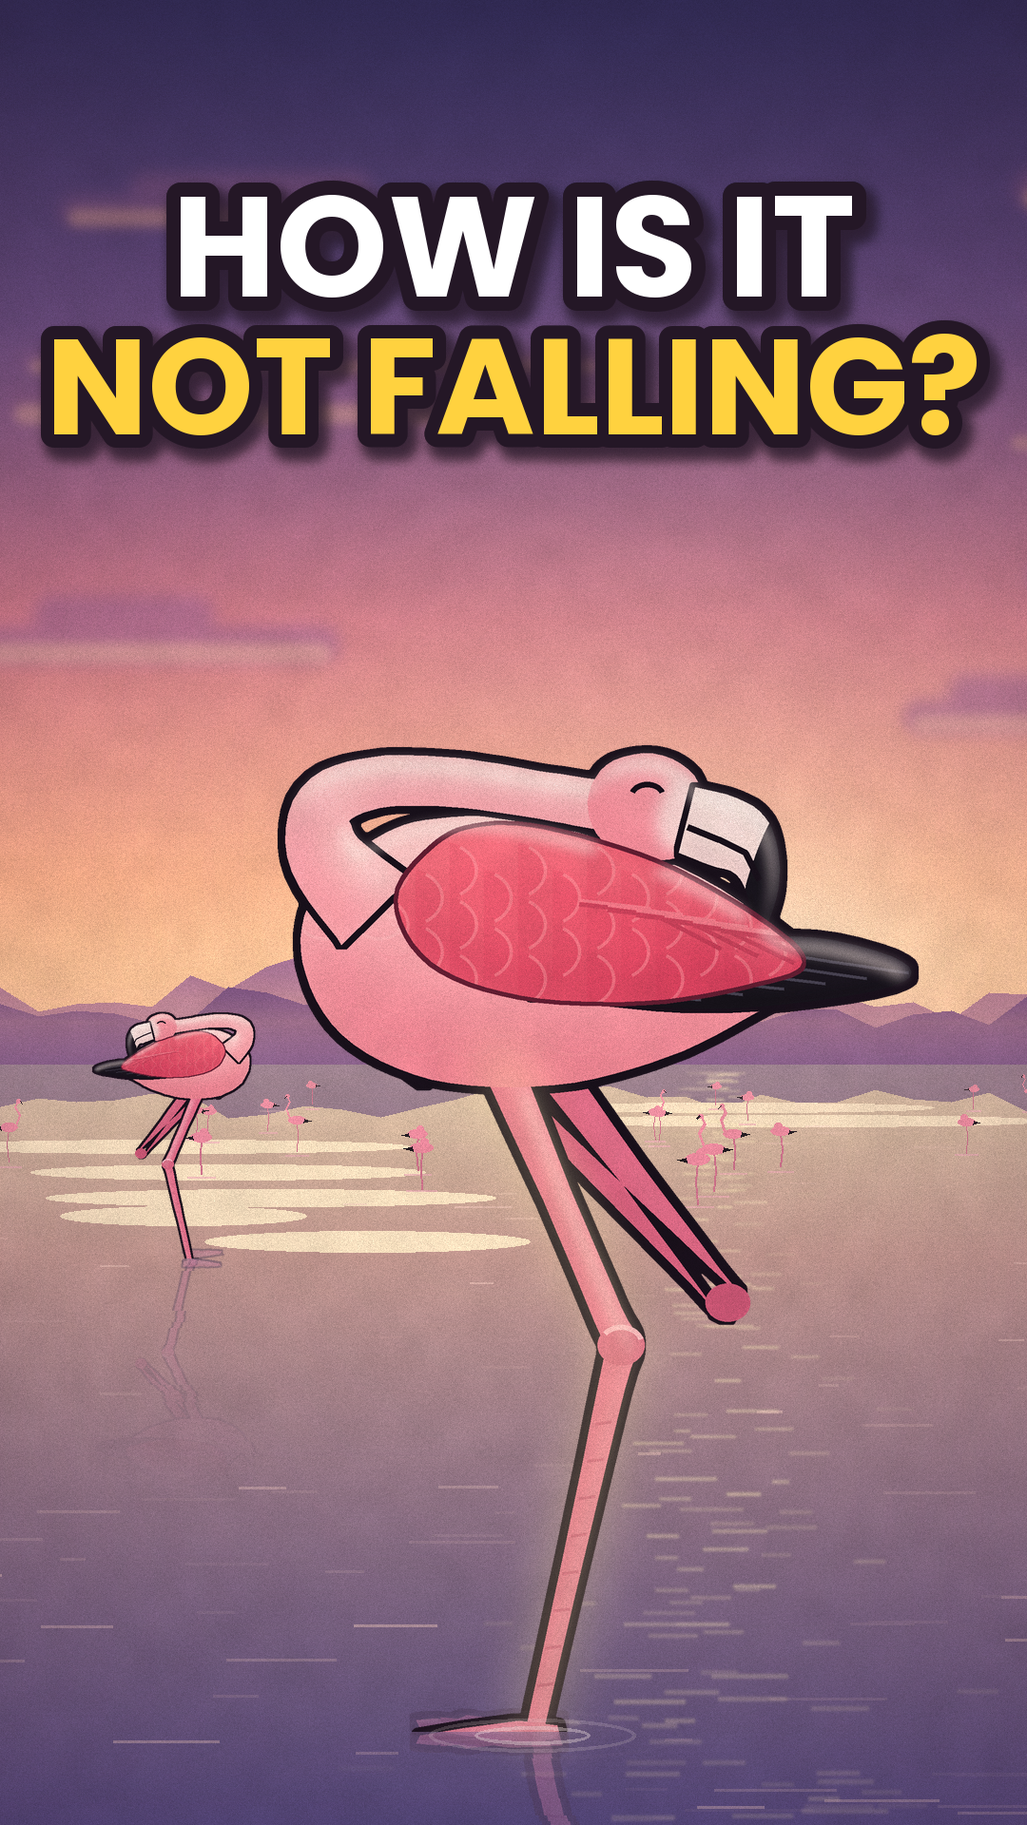
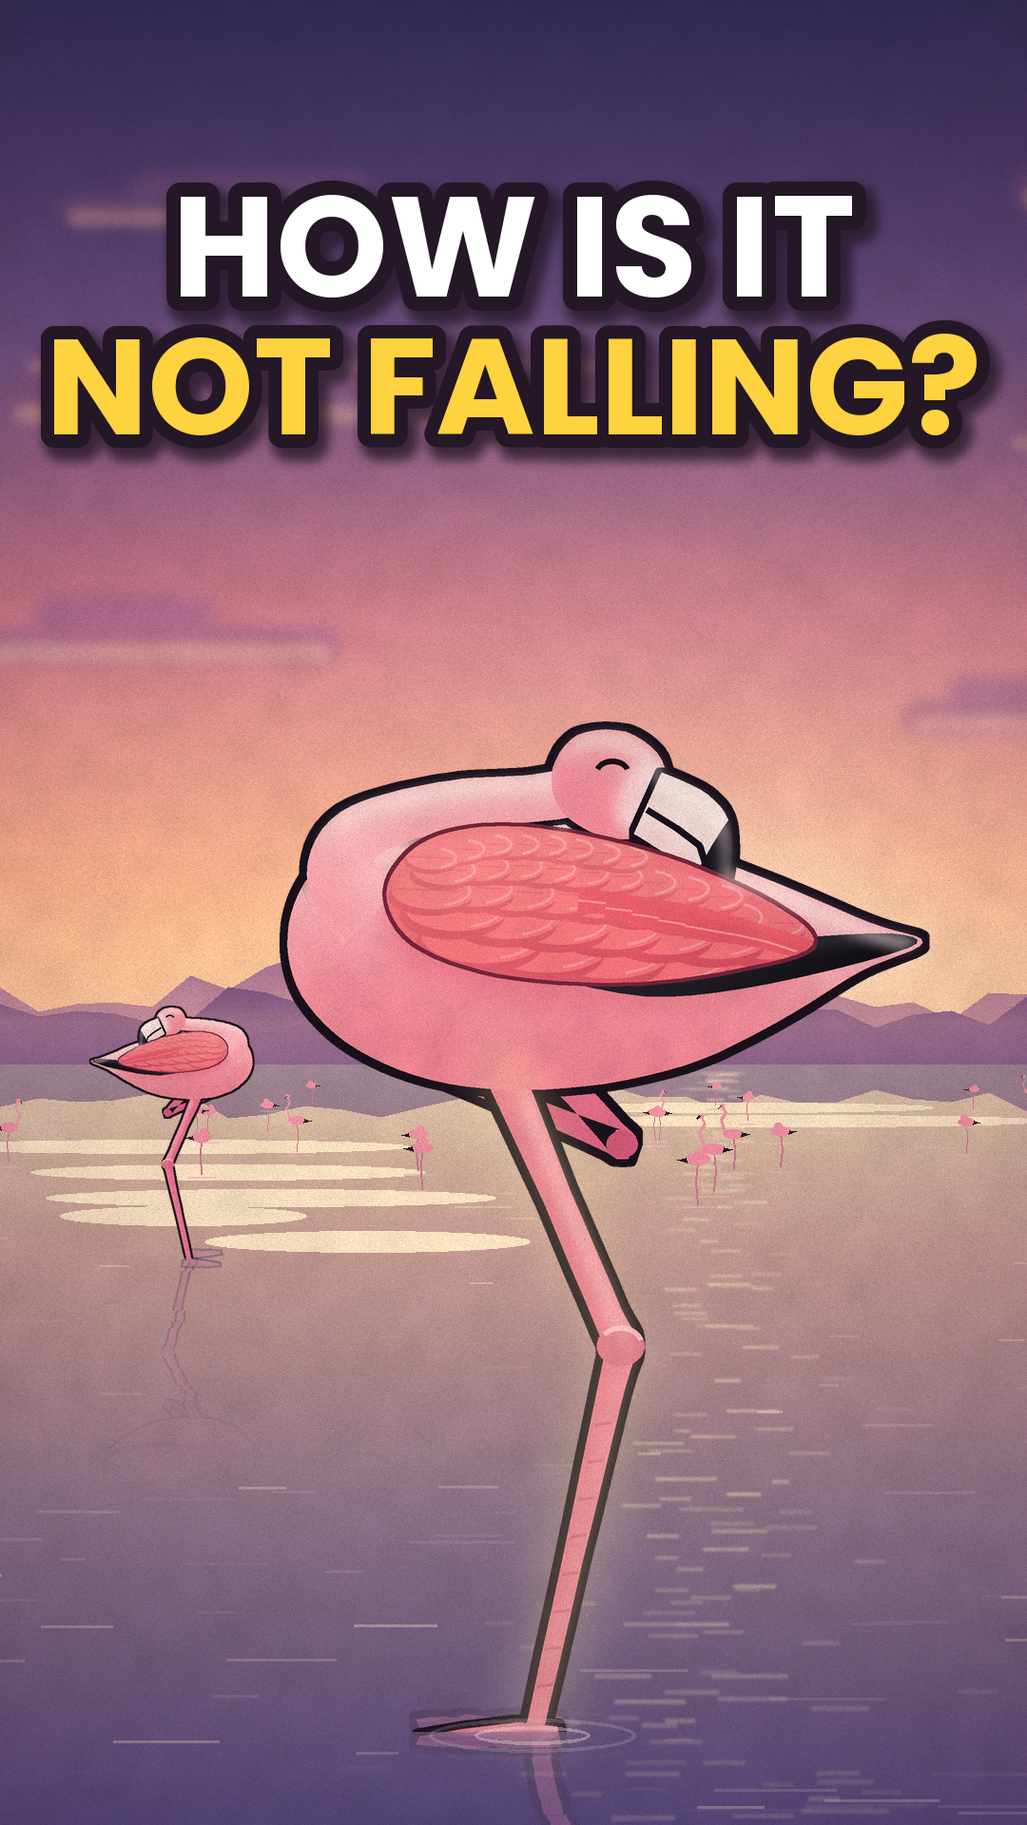
flamingo-one-leg: fix pass (tight folded leg, neck laid flat when asleep, new body + layered coverts + black band, s03 cold leg, s07 zoo yard, caption bands) + thumbnail
Claude-Session: https://claude.ai/code/session_01CUE844VhHn44pL2N7vrAMq

Changed region(s): [[0.2444, 0.375, 0.9167, 0.75], [0.0917, 0.5312, 0.2444, 0.6562], [0.4278, 0.5938, 0.4889, 0.625]]

diff --git a/flat2d/flamingo.py b/flat2d/flamingo.py
@@ -24,8 +24,8 @@ from animals import _cr, _limb_poly, _dilate, _erode, _paste, contact
 
 INK = (24, 16, 26)
 PAL = {
-    'adult': dict(body=(250, 168, 172), body_hi=(255, 214, 210), body_lo=(226, 104, 124), wing=(236, 78, 102),
-                  wing_hi=(255, 140, 146), wing_lo=(190, 46, 78), neck=(252, 172, 176), neck_lo=(232, 118, 136),
+    'adult': dict(body=(250, 168, 172), body_hi=(255, 214, 210), body_lo=(226, 104, 124), wing=(242, 102, 112),
+                  wing_hi=(255, 164, 158), wing_lo=(204, 60, 86), neck=(252, 172, 176), neck_lo=(232, 118, 136),
                   head=(248, 150, 160), face=(250, 226, 220), beak=(246, 220, 214), beak_lo=(214, 168, 170),
                   leg=(238, 120, 146), leg_lo=(196, 76, 108), leg_hi=(255, 178, 192), black=(26, 22, 30),
                   eye=(252, 214, 60), rim=(255, 236, 226)),
@@ -69,18 +69,19 @@ def ik(K, F, back=True):
 
 
 # ---------------------------------------------------------------- geometry
-BODY = [(0.140, -0.800), (0.195, -0.750), (0.205, -0.690), (0.170, -0.625), (0.090, -0.585), (-0.020, -0.580),
-        (-0.120, -0.605), (-0.200, -0.645), (-0.255, -0.680), (-0.225, -0.715), (-0.130, -0.775), (0.000, -0.815),
-        (0.085, -0.818)]
-WING = [(0.090, -0.790), (0.120, -0.745), (0.090, -0.690), (0.010, -0.660), (-0.100, -0.655), (-0.200, -0.672),
-        (-0.240, -0.690), (-0.200, -0.728), (-0.110, -0.778), (-0.010, -0.808), (0.050, -0.810)]
-PRIM = [(0.010, -0.672), (-0.090, -0.652), (-0.200, -0.650), (-0.320, -0.668), (-0.330, -0.690), (-0.250, -0.712),
-        (-0.150, -0.705), (-0.060, -0.690)]
-# neck centrelines (base in the chest -> head centre) for the upright and sleeping poses
+BODY = [(0.150, -0.802), (0.198, -0.768), (0.218, -0.715), (0.205, -0.660), (0.155, -0.612), (0.075, -0.582),
+        (-0.030, -0.578), (-0.135, -0.598), (-0.220, -0.638), (-0.292, -0.682), (-0.348, -0.708), (-0.300, -0.726),
+        (-0.200, -0.768), (-0.080, -0.808), (0.040, -0.824)]
+WING = [(0.105, -0.792), (0.130, -0.752), (0.105, -0.708), (0.030, -0.680), (-0.080, -0.672), (-0.180, -0.684),
+        (-0.250, -0.706), (-0.215, -0.742), (-0.120, -0.784), (-0.020, -0.808), (0.055, -0.810)]
+PRIM = [(0.000, -0.684), (-0.100, -0.660), (-0.210, -0.671), (-0.335, -0.703), (-0.322, -0.716), (-0.240, -0.712),
+        (-0.120, -0.700), (-0.030, -0.700)]
+# neck centrelines (base in the chest -> head centre) for the upright and sleeping poses. Asleep the neck lies flat
+# in an S along the back (no gap under it) and the head rests on the back, the bill tucked into the back feathers.
 NECK_UP = [(0.140, -0.735), (0.190, -0.810), (0.225, -0.905), (0.200, -1.000), (0.130, -1.075), (0.105, -1.160),
            (0.140, -1.240), (0.195, -1.280)]
-NECK_SLEEP = [(0.140, -0.735), (0.185, -0.785), (0.185, -0.830), (0.140, -0.850), (0.070, -0.850), (0.000, -0.840),
-              (-0.060, -0.830), (-0.105, -0.825)]
+NECK_SLEEP = [(0.140, -0.735), (0.168, -0.766), (0.160, -0.800), (0.118, -0.820), (0.060, -0.832), (0.005, -0.836),
+              (-0.040, -0.842), (-0.072, -0.846)]
 NECK_W = [0.085, 0.066, 0.052, 0.046, 0.044, 0.042, 0.044, 0.050]
 
 
@@ -121,7 +122,7 @@ def geometry(pose, kind='adult'):
     hc = cl[-1]
     d_up = math.atan2(cl[-1][1] - cl[-2][1], cl[-1][0] - cl[-2][0])
     a_up = 0.35 + float(p.get('nod', 0.0))                         # rad, + = beak down
-    a_sl = math.pi - 0.25
+    a_sl = math.pi - 0.42
     ha = lerp(a_up, a_sl, sl) if sl < .5 else lerp(a_up + 2 * math.pi * 0, a_sl, sl)
     ha += tilt
     G['head_c'], G['head_a'] = hc, ha
@@ -156,11 +157,14 @@ def geometry(pose, kind='adult'):
     def angs(K, A, F):
         return math.atan2(A[1] - K[1], A[0] - K[0]), math.atan2(F[1] - A[1], F[0] - A[0])
     a1d, a2d = angs(Kf, Af_down, Ff_down)
-    a1t, a2t = math.atan2(0.80, -0.60) + tilt, math.atan2(-0.70, 0.71) + tilt          # tucked: '<' pointing back
+    At, Ft = B((-0.080, -0.528)), B((0.080, -0.592))
+    a1t, a2t = angs(Kf, At, Ft)
+    L1t, L2t = math.hypot(At[0] - Kf[0], At[1] - Kf[1]), math.hypot(Ft[0] - At[0], Ft[1] - At[1])
     k = fold * fold * (3 - 2 * fold)
-    a1 = lerp(a1d, a1t, k); a2 = lerp(a2d, a2t if a2t > a2d - math.pi else a2t + 2 * math.pi, k)
-    Af = (Kf[0] + math.cos(a1) * LT, Kf[1] + math.sin(a1) * LT)
-    Ff = (Af[0] + math.cos(a2) * LM, Af[1] + math.sin(a2) * LM)
+    if a2t > a2d: a2t -= 2 * math.pi
+    a1 = lerp(a1d, a1t, k); a2 = lerp(a2d, a2t, k)
+    Af = (Kf[0] + math.cos(a1) * lerp(LT, L1t, k), Kf[1] + math.sin(a1) * lerp(LT, L1t, k))
+    Ff = (Af[0] + math.cos(a2) * lerp(LM, L2t, k), Af[1] + math.sin(a2) * lerp(LM, L2t, k))
     G['legs'] = {'near': (Kn, An, Fn), 'far': (Kf, Af, Ff)}
     G['far_fold'] = k
     G['piv'] = B(piv)
@@ -184,8 +188,8 @@ def _foot_poly(F, A, tucked=0.0):
     tucked: the toes curl and point down/back (foot folded up under the body)."""
     dirx = 1.0
     if tucked > 0:
-        a = math.atan2(F[1] - A[1], F[0] - A[0]) + math.pi * .55 * tucked
-        L = 0.085 * (1 - .35 * tucked)
+        a = math.atan2(F[1] - A[1], F[0] - A[0]) - math.pi * .25 * tucked
+        L = 0.085 * (1 - .45 * tucked)
         tipc = (F[0] + math.cos(a) * L, F[1] + math.sin(a) * L)
         n = (-math.sin(a), math.cos(a))
         web = [(F[0] - n[0] * .012, F[1] - n[1] * .012), (tipc[0] - n[0] * .022, tipc[1] - n[1] * .022),
@@ -273,11 +277,11 @@ def bird(s, pose=None, kind='adult', light=(-.5, -1.0), cache=True, ink_w=None):
     fc = lerpc(C['leg'], C['leg_lo'], .45)
     paint(mfar, fc, lerpc(C['leg'], C['leg_hi'], .4), C['leg_lo'], .4, .5, .02)
     d = ImageDraw.Draw(lay)
-    d.ellipse([*pt((Af[0] - .02, Af[1] - .017)), *pt((Af[0] + .02, Af[1] + .017))], fill=lerpc(fc, C['leg_lo'], .5))
+    d.ellipse([*pt((Af[0] - .014, Af[1] - .012)), *pt((Af[0] + .014, Af[1] + .012))], fill=lerpc(fc, C['leg_lo'], .5))
 
     # ---- near group masks
     mb = M([G['body']]); mn = M([G['neck']]); mh = M([G['head']]); mbk = M([G['beak']])
-    mw = M([G['wing']]); mp = M([G['prim']] + [_limb_poly(_cr(f, 4, False), np.linspace(.028, .010, len(_cr(f, 4, False)))) for f in G['feathers']])
+    mw = M([G['wing']]); mp = M([G['prim']])
     Kn, An, Fn = G['legs']['near']
     ml = M([_leg_poly(Kn, An, Fn)])
     webn, toesn = _foot_poly(Fn, An)
@@ -298,21 +302,29 @@ def bird(s, pose=None, kind='adult', light=(-.5, -1.0), cache=True, ink_w=None):
     for tl in toesn:
         d.line([pt(tl[0]), pt(tl[1])], fill=lerpc(C['leg'], C['leg_lo'], .7), width=max(1, int(S * .004)))
 
-    # body: graded pale back -> deeper belly, scallops
+    # body: an oval with a full chest, graded pale back -> coral belly, soft layered contour feathers, form shadow
     bb = mb.getbbox() or (0, 0, Wd, Hd)
-    paint(mb, ('g', (0, bb[1]), (0, bb[3]), C['body_hi'], C['body_lo'], C['body'], .55), C['rim'], C['body_lo'], .5, .55, .05)
+    paint(mb, ('g', (0, bb[1]), (0, bb[3]), C['body_hi'], C['body_lo'], C['body'], .5), C['rim'], C['body_lo'], .5, .6, .06)
     tex = Image.new('RGBA', (Wd, Hd), (0, 0, 0, 0)); dt = ImageDraw.Draw(tex)
     rng = np.random.default_rng(7)
-    r = .022 * S
-    for row in range(12):
-        yy = bb[1] + (row + .5) * (bb[3] - bb[1]) / 14
-        off = (row % 2) * r
-        for xx in np.arange(bb[0] - r + off, bb[2] + r, r * 2.0):
-            j = rng.uniform(-.25, .25) * r
-            col = lerpc(C['body'], C['body_lo'], .35) if row > 5 else lerpc(C['body'], C['body_hi'], .6)
-            dt.arc([xx - r + j, yy - r * .7, xx + r + j, yy + r * .7], 20, 160, fill=col + (70,), width=max(1, int(S * .003)))
+    fw = .05 * S
+    for row in range(7):
+        yy = bb[1] + (row + 1.2) * (bb[3] - bb[1]) / 8.2
+        off = (row % 2) * fw * .55
+        for xx in np.arange(bb[0] + off, bb[2], fw * 1.1):
+            j = rng.uniform(-.2, .2) * fw; L = fw * rng.uniform(.9, 1.25)
+            # one contour feather: its tip edge (pointing back, -x) as a soft crescent, a pale fringe above it
+            box = [xx - L + j, yy - fw * .42, xx + L * .2 + j, yy + fw * .42]
+            dt.arc(box, 115, 245, fill=lerpc(C['body_lo'], (150, 40, 70), .1) + (12 + row * 3,), width=max(1, int(S * .004)))
+            dt.arc([box[0] + S * .004, box[1], box[2] + S * .004, box[3]], 125, 235, fill=C['body_hi'] + (22,), width=max(1, int(S * .003)))
+    tex = tex.filter(ImageFilter.GaussianBlur(S * .003))
     tex.putalpha(ImageChops.multiply(tex.split()[3], mb))
     lay.alpha_composite(tex)
+    # the wing casts a soft shadow on the flank under it
+    mw0 = M([G['wing']])
+    shw = ImageChops.offset(mw0, int(S * .004), int(S * .022)).filter(ImageFilter.GaussianBlur(S * .014))
+    shw = ImageChops.multiply(ImageChops.subtract(shw, mw0), mb)
+    lay.paste(Image.new('RGBA', (Wd, Hd), C['body_lo'] + (255,)), (0, 0), shw.point(lambda v: int(v * .75)))
 
     # neck + head
     nb = mn.getbbox() or bb
@@ -328,6 +340,9 @@ def bird(s, pose=None, kind='adult', light=(-.5, -1.0), cache=True, ink_w=None):
     if sleep > .25:
         over = ImageChops.multiply(_dilate(ImageChops.lighter(mn, mh), int(iw * .7)), mb)
         over = ImageChops.subtract(over, ImageChops.lighter(mn, mh))
+        nb0 = pt(G['neck_c'][0]); yy_, xx_ = np.mgrid[0:Hd, 0:Wd]
+        fade = np.clip((np.hypot(xx_ - nb0[0], yy_ - nb0[1]) - .06 * S) / (.05 * S), 0, 1)
+        over = Image.fromarray((np.asarray(over, np.float32) * fade).astype(np.uint8))
         lay.paste(Image.new('RGBA', (Wd, Hd), INK + (255,)), (0, 0), over)
         paint(mn, nspec, C['rim'], C['neck_lo'], .55, .55, .025)
         paint(mh, C['head'], C['rim'], C['neck_lo'], .5, .5, .02)
@@ -353,40 +368,62 @@ def bird(s, pose=None, kind='adult', light=(-.5, -1.0), cache=True, ink_w=None):
         flip = G['head_flip']
         d.arc([ex - er * 1.3, ey - er * 1.0, ex + er * 1.3, ey + er * 1.0], 200 if flip else 20, 340 if flip else 160, fill=INK, width=max(2, int(S * .0055)))
 
-    # wing coverts: deep coral, layered scallops; black primaries along the lower rear edge
+    # wing: deeper coral coverts in overlapping rows (each feather a soft lobe with a pale fringe and a shadow under its
+    # tip), long tertial plumes over the rear, and the black flight feathers as a neat band along the lower rear edge
     wb = mw.getbbox() or bb
-    # primaries first (under the coverts)
-    pink_edge = ImageChops.subtract(_dilate(mp, int(iw * .6)), mp)
-    lay.paste(Image.new('RGBA', (Wd, Hd), INK + (255,)), (0, 0), ImageChops.multiply(pink_edge, mb))
-    paint(mp, C['black'], (90, 84, 100), (0, 0, 0), .5, .3, .01)
+    pb = mp.getbbox() or wb
+    paint(mp, ('g', (pb[0], 0), (pb[2], 0), (14, 12, 18), (52, 46, 58)), (96, 90, 104), (0, 0, 0), .45, .3, .01)
     d = ImageDraw.Draw(lay)
-    for f in G['feathers']:
-        sm = _cr(f, 4, False)
-        d.line(P(sm), fill=(70, 66, 80), width=max(1, int(S * .003)))
-    wing_ink = ImageChops.subtract(_dilate(mw, int(iw * .55)), mw)
-    lay.paste(Image.new('RGBA', (Wd, Hd), lerpc(C['wing_lo'], INK, .55) + (255,)), (0, 0), ImageChops.multiply(wing_ink, mb))
-    paint(mw, ('g', (wb[2], wb[1]), (wb[0], wb[3]), C['wing_hi'], C['wing_lo'], C['wing'], .5), C['wing_hi'], C['wing_lo'], .5, .5, .03)
+    wing_ink = ImageChops.subtract(_dilate(mw, int(iw * .5)), mw)
+    lay.paste(Image.new('RGBA', (Wd, Hd), lerpc(C['wing_lo'], INK, .5) + (255,)), (0, 0), ImageChops.multiply(wing_ink, mb))
+    paint(mw, ('g', (wb[2], wb[1]), (wb[0], wb[3]), C['wing_hi'], C['wing_lo'], C['wing'], .55), C['wing_hi'], C['wing_lo'], .45, .45, .03)
+    warr = np.asarray(mw) > 0
+    cols = np.where(warr.any(0))[0]
     tex = Image.new('RGBA', (Wd, Hd), (0, 0, 0, 0)); dt = ImageDraw.Draw(tex)
-    rr = .034 * S
-    for row in range(5):
-        f = row / 4
-        yy = lerp(wb[1] + rr * 1.2, wb[3] - rr * .6, f)
-        off = (row % 2) * rr * .9
-        for xx in np.arange(wb[0] + off - rr, wb[2] + rr, rr * 1.8):
-            # a covert feather: rounded tip pointing back (-x), darker under-edge, pale fringe
-            box = [xx - rr * 1.3, yy - rr * .75, xx + rr * .5, yy + rr * .75]
-            dt.chord(box, 100, 260, fill=lerpc(C['wing'], C['wing_lo'], .3 + .3 * f) + (60,))
-            dt.arc(box, 120, 240, fill=lerpc(C['wing_hi'], (255, 255, 255), .2) + (95,), width=max(1, int(S * .003)))
-    # long scapular plumes drooping back over the black flight feathers
-    for i in range(6):
-        f = i / 5
-        a0 = (lerp(wb[0] + (wb[2] - wb[0]) * .55, wb[0] + (wb[2] - wb[0]) * .2, f), lerp(wb[1] + (wb[3] - wb[1]) * .45, wb[1] + (wb[3] - wb[1]) * .6, f))
-        a1 = (a0[0] - (wb[2] - wb[0]) * (.35 + .1 * f), a0[1] + (wb[3] - wb[1]) * (.25 + .05 * f))
-        mid = ((a0[0] + a1[0]) / 2, (a0[1] + a1[1]) / 2 - (wb[3] - wb[1]) * .08)
-        dt.line([a0, mid, a1], fill=lerpc(C['wing_lo'], (0, 0, 0), .15) + (110,), width=max(1, int(S * .0045)), joint='curve')
-        dt.line([(a0[0], a0[1] - S * .004), (mid[0], mid[1] - S * .004)], fill=lerpc(C['wing_hi'], (255, 255, 255), .3) + (90,), width=max(1, int(S * .003)))
+    rng = np.random.default_rng(11)
+    def col_span(x):
+        x = int(min(max(x, cols[0]), cols[-1])); ys = np.where(warr[:, x])[0]
+        return (ys[0], ys[-1]) if len(ys) else (wb[1], wb[3])
+    W_ = wb[2] - wb[0]
+    rows = [(.12, .026, .55), (.27, .032, .72), (.44, .040, .86), (.62, .050, .98), (.80, .060, 1.0)]   # (depth, feather size, reach)
+    for depth, fs, reach in rows[::-1]:
+        L = fs * S * 1.5; Hh = fs * S * .42
+        xs = np.arange(wb[2] - L * .3 - (depth * 7 % 1) * L * .5, wb[2] - W_ * reach, -L * .62)
+        for xx in xs[::-1]:
+            top, bot = col_span(xx)
+            yy = top + (bot - top) * depth + rng.uniform(-.06, .06) * Hh
+            k = (wb[2] - xx) / max(1, W_)
+            c = lerpc(lerpc(C['wing_hi'], C['wing'], .35 + .4 * depth), C['wing_lo'], .25 * k)
+            box = [xx - L, yy - Hh, xx + L * .25, yy + Hh]
+            dt.ellipse([box[0] + L * .06, box[1] + Hh * .35, box[2] + L * .06, box[3] + Hh * .35], fill=lerpc(C['wing_lo'], (90, 10, 40), .3) + (45,))
+            dt.ellipse(box, fill=c + (235,))
+            dt.arc([box[0] + L * .08, box[1] + Hh * .15, box[2], box[3] - Hh * .1], 110, 250, fill=lerpc(C['wing_hi'], (255, 255, 255), .4) + (120,), width=max(1, int(S * .0026)))
+            dt.line([(xx - L * .75, yy + Hh * .05), (xx + L * .2, yy - Hh * .1)], fill=lerpc(c, C['wing_lo'], .45) + (90,), width=max(1, int(S * .002)))
+    # tertials: long soft plumes drooping back over the black band
+    for i in range(5):
+        f = i / 4
+        x0 = wb[0] + W_ * (.55 - .25 * f); top, bot = col_span(x0); y0 = top + (bot - top) * (.45 + .1 * f)
+        x1 = wb[0] - W_ * (.02 + .06 * f); y1 = y0 + (bot - top) * (.32 + .08 * f)
+        pts = [(x0, y0), ((x0 + x1) / 2, (y0 + y1) / 2 - (bot - top) * .06), (x1, y1)]
+        sm = _cr(pts, 6, False)
+        poly = _limb_poly(sm, np.linspace(.022 * S, .006 * S, len(sm)))
+        dt.polygon(poly, fill=lerpc(C['wing'], C['wing_lo'], .2 + .15 * f) + (225,))
+        dt.line(sm[:len(sm) * 3 // 4], fill=lerpc(C['wing_hi'], (255, 255, 255), .3) + (130,), width=max(1, int(S * .0025)))
     tex.putalpha(ImageChops.multiply(tex.split()[3], mw))
     lay.alpha_composite(tex)
+    # asleep: the bill is pushed into the back feathers (a clump of scapulars lies over its front half)
+    if False:
+        Hf = G['Hf']; cc = pt(Hf(0.098, 0.034)); a0 = G['head_a']
+        clump = Image.new('RGBA', (Wd, Hd), (0, 0, 0, 0)); dc = ImageDraw.Draw(clump)
+        rx, ry = .075 * S, .036 * S
+        for j, (dx_, dy_, sc) in enumerate([(.02, .012, 1.0), (-.03, -.004, .8), (.05, -.012, .7)]):
+            cx_, cy_ = cc[0] + dx_ * S, cc[1] + dy_ * S
+            dc.ellipse([cx_ - rx * sc, cy_ - ry * sc, cx_ + rx * sc, cy_ + ry * sc], fill=lerpc(C['wing'], C['wing_hi'], .25 + .15 * j) + (255,))
+            dc.arc([cx_ - rx * sc, cy_ - ry * sc, cx_ + rx * sc, cy_ + ry * sc], 150, 300, fill=lerpc(C['wing_hi'], (255, 255, 255), .45) + (220,), width=max(1, int(S * .003)))
+            dc.arc([cx_ - rx * sc, cy_ - ry * sc, cx_ + rx * sc, cy_ + ry * sc], 330, 470, fill=lerpc(C['wing_lo'], INK, .4) + (200,), width=max(1, int(S * .003)))
+        clump = clump.filter(ImageFilter.GaussianBlur(S * .0015))
+        clump.putalpha(ImageChops.multiply(clump.split()[3], ImageChops.lighter(mb, mbk)))
+        lay.alpha_composite(clump)
     # ruffle: a few loose covert tips over the lower wing edge (wind / settling)
     # rim light inside the ink on the top edges, form shadow under the belly
     near_in = _erode(near, int(iw * .5))

diff --git a/flat2d/flamingo_one_leg.py b/flat2d/flamingo_one_leg.py
@@ -349,6 +349,12 @@ def s03(u, D, cue):
     lut = therm_lut()
     col = lut[(np.clip(v, 0, 1) * 255).astype(np.uint8)].astype(np.float32)
     col *= np.clip(L * 2.5, 0, 1)[..., None] * .4 + .6
+    # the standing leg in the water reads COLD: a clear cool blue with a soft glow (not lost in the dark water)
+    legm = (yy > bel + 20) & (a[..., 3] > 0)
+    cool = np.array((120, 190, 255), np.float32) * (.7 + .3 * np.clip(L * 1.4, 0, 1))[..., None]
+    col = np.where(legm[..., None], cool, col)
+    gl = Image.fromarray((legm * 255).astype(np.uint8)).filter(ImageFilter.GaussianBlur(14))
+    img.paste(Image.new('RGBA', (W, H), (90, 160, 255, 255)), (0, 0), gl.point(lambda v_: int(min(255, v_ * 1.6))))
     out = np.dstack([col, a[..., 3]]).clip(0, 255).astype(np.uint8)
     img.alpha_composite(Image.fromarray(out, 'RGBA'))
     # heat shimmer rings around the tucked foot
@@ -591,11 +597,64 @@ def trace_panel(img, x, y, w, h, u, k_closed, t):
         d.text((x - w / 2 + 20, yy - h * .2), lbl, font=font(28, True), fill=col, anchor='lm')
 
 
+def zoo_enclosure(img, w, cam):
+    """The Zoo Atlanta flamingo yard in front of the backdrop: a wire fence behind the bird, a shallow pool with a stone
+    edge across the foreground, lily pads, ripples, and big leafy plants at both sides."""
+    d = ImageDraw.Draw(img)
+    # wire fence (mid ground)
+    fy0, fy1 = 1330, 1545
+    for x in range(-60, W + 160, 170):
+        xx = x + (cam * .8) % 170
+        d.rectangle([xx - 9, fy0 - 20, xx + 9, fy1], fill=(122, 96, 70), outline=INK, width=4)
+    m = mask(); dm = ImageDraw.Draw(m)
+    for x in range(-200, W + 200, 34):
+        xx = x + (cam * .8) % 34
+        dm.line([(xx, fy0), (xx + 120, fy1)], fill=255, width=2); dm.line([(xx + 120, fy0), (xx, fy1)], fill=255, width=2)
+    fill_mask(img, m, (200, 210, 206), .55)
+    for yy in (fy0, fy1 - 6): d.line([(-10, yy), (W + 10, yy)], fill=(170, 176, 172), width=5)
+    # pool: the foreground water with a stone rim
+    py0 = 1650
+    pool = vgrad([(0, (90, 170, 168)), (1, (40, 110, 130))], W, H - py0)
+    img.paste(pool, (0, py0))
+    d = ImageDraw.Draw(img)
+    rng = np.random.default_rng(21)
+    for i in range(40):
+        y = rng.uniform(py0 + 40, H); x = (rng.uniform(0, W) + w * 18) % (W + 200) - 100
+        d.line([(x, y), (x + rng.uniform(40, 120), y)], fill=(170, 226, 220), width=3)
+    x = -40
+    while x < W + 60:
+        r = rng.uniform(34, 56)
+        d.ellipse([x, py0 - r * .6, x + r * 2, py0 + r * .5], fill=tuple(int(v) for v in rng.uniform(150, 182, 3)), outline=INK, width=4)
+        d.arc([x + 6, py0 - r * .5, x + r * 2 - 6, py0 + r * .3], 200, 320, fill=(226, 222, 210), width=4)
+        x += r * 1.7
+    for (lx, ly, r) in ((150, 1860, 46), (260, 1905, 34), (620, 1880, 40)):
+        d.pieslice([lx - r, ly - r * .45, lx + r, ly + r * .45], 20, 340, fill=(70, 150, 80), outline=INK, width=4)
+    FL.ripples(img, 420, 1820, 160, w, col=(210, 245, 240), n=2, alpha=.45)
+    # big leaves (both sides)
+    def leaf(cx, cy, ln, ang, col):
+        a = math.radians(ang); ux, uy = math.cos(a), math.sin(a); nx, ny = -uy, ux
+        pts = [(cx, cy)]
+        for k in range(1, 9):
+            f = k / 8; wv = math.sin(f * math.pi) * ln * .26
+            pts.append((cx + ux * ln * f + nx * wv, cy + uy * ln * f + ny * wv))
+        for k in range(7, 0, -1):
+            f = k / 8; wv = math.sin(f * math.pi) * ln * .26
+            pts.append((cx + ux * ln * f - nx * wv, cy + uy * ln * f - ny * wv))
+        d.polygon(pts, fill=col, outline=INK)
+        d.line([(cx, cy), (cx + ux * ln * .92, cy + uy * ln * .92)], fill=lerp(col, (255, 255, 255), .3), width=4)
+    sw = 4 * math.sin(w * 1.3)
+    for (cx, cy, ln, ang, col) in ((-30, 1980, 360, -70 + sw, (46, 110, 60)), (-40, 1960, 320, -40 + sw, (60, 134, 70)),
+                                   (20, 1990, 280, -95 + sw, (74, 150, 80)), (1110, 1990, 360, -112 - sw, (46, 110, 60)),
+                                   (1120, 1960, 300, -140 - sw, (60, 134, 70)), (1060, 2000, 260, -86 - sw, (74, 150, 80))):
+        leaf(cx + cam * 1.4, cy, ln, ang, col)
+
+
 def s07(u, D, cue):
     w = u + 70
     cam = -20 * smooth(u / D)
     img = Image.new('RGBA', (W, H))
     LG.zoo(img, w, cam)
+    zoo_enclosure(img, w, cam)
     kc = smooth(seg(u, cue(8) - .3, cue(10) + .1))
     sway = (1 - kc) * 3.0 * math.sin(w * 5.3) + (1 - kc) * 2 * math.sin(w * 8.1)
     bx, gy = 400 + cam, 1560
@@ -607,8 +666,7 @@ def s07(u, D, cue):
            pose=dict(breath=q(.5 + .5 * math.sin(w * 2), .25), tilt=q(sway, .5), sway=q(.05 * (1 - kc) * math.sin(w * 3), .01),
                      eye=q(1 - kc, .1), sleep=q(.35 * kc, .05), fold=1))
     trace_panel(img, 720 + cam * .4, 560, 580, 330, u, smooth(seg(u, cue(8) - .3, cue(10) + .6)), w)
-    LG.rail(img, 1900, cam)
-    g = sci(img, w, 'A', 'point', 'thinking', 900 + cam * 1.3, 2060, .5, look=-.5, kw=dict(shirt='#3f7a5a', pants='#4a5a44', hat='cap'))
+    g = sci(img, w, 'A', 'point', 'thinking', 860 + cam * 1.3, 1648, .42, look=-.5, kw=dict(shirt='#3f7a5a', pants='#4a5a44', hat='cap'))
     img = finish(img, w, 1.02 + .02 * smooth(u / D), 540, 1200, vig=(.24, (20, 50, 30)))
     if not HIDE_UI:
         clue(img, 'CLUE 3', u, .05, 230)
@@ -942,6 +1000,6 @@ SHOT_LIST = [('s01', 1, 0), ('s01b', 1, 12), ('s02', 2, 0), ('s03', 3, 0), ('s04
 END = 1888 / 30                  # 62.933 s (length.json)
 NO_PUNCH = ()
 BAND_AT = {}
-BAND_FIX = {'s05': 1835, 's05b': 1835, 's09': 1835, 's10': 1835, 's11': 1835, 's12b': 1835, 's13': 1840}
+BAND_FIX = {'s03': 520, 's07': 1885, 's08': 1845, 's14': 1000, 's15': 1850, 's05': 1835, 's05b': 1835, 's09': 1835, 's10': 1835, 's11': 1835, 's12b': 1835, 's13': 1840}
 STILL_AT = {'s01': .02, 's01b': .9, 's02': .95, 's03': .9, 's04': .9, 's04b': .9, 's05': .95, 's05b': .9, 's06': .92,
             's07': .95, 's08': .9, 's09': .95, 's10': .9, 's11': .92, 's12': .9, 's12b': .75, 's13': .92, 's14': .95, 's15': .5}
